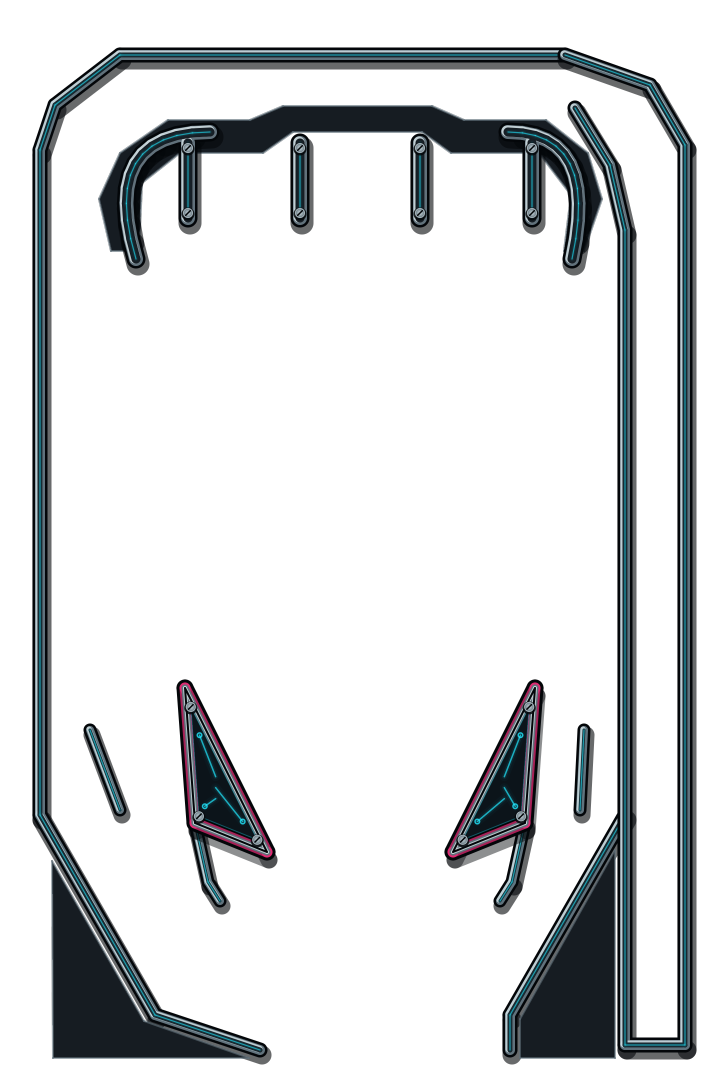
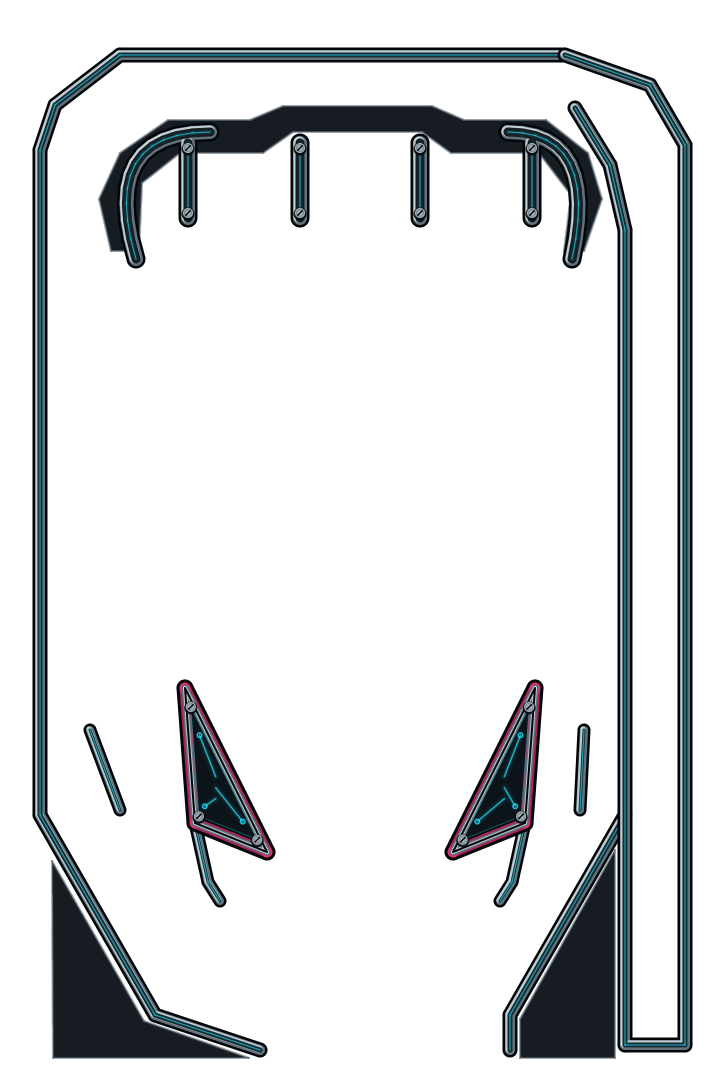
feat: update layout and rendering details, enhance collision checks, and improve asset descriptions

diff --git a/internal/platform/layout_preview.go b/internal/platform/layout_preview.go
@@ -17,10 +17,10 @@ func RenderLayoutFrame(window draw.Window, current *game.Game) {
 	view := newViewport(width, height)
 	window.FillRect(0, 0, width, height, draw.RGB(.07, .08, .09))
 	solid := draw.RGB(.4, .43, .45)
-	for _, line := range current.Table.LineColliders() {
+	for _, line := range current.World.Lines {
 		r.thickLine(window, view, line.Segment, solid, int(math.Round(line.Radius*2)))
 	}
-	for _, circle := range current.Table.CircleColliders() {
+	for _, circle := range current.World.Circles {
 		x, y := view.point(circle.Center)
 		radius := view.size(circle.Radius)
 		window.FillEllipse(x-radius, y-radius, radius*2, radius*2, solid)
@@ -36,7 +36,7 @@ func RenderLayoutFrame(window draw.Window, current *game.Game) {
 	for _, f := range current.World.Flippers {
 		r.thickLine(window, view, physics.Segment{A: f.Pivot, B: f.Tip()}, draw.LightGray, int(f.Radius*2))
 	}
-	r.centerText(window, "NEON RELAY", view.x(table.TitleOrigin.X+110), view.y(table.TitleOrigin.Y+35), float32(view.scale), draw.LightGray)
+	r.centerText(window, "NEON RELAY", view.x(table.TitleOrigin.X+88), view.y(table.TitleOrigin.Y+35), float32(view.scale), draw.LightGray)
 	RenderCollisionOverlay(window, current)
 }
 

diff --git a/cmd/genassets/art.go b/cmd/genassets/art.go
@@ -100,7 +100,6 @@ func (c *canvas) rails(walls []physics.LineCollider) {
 		dx, dy, extra, opacity float64
 		col                    color.NRGBA
 	}{
-		{2, 5, 9, .6, black},
 		{0, 0, 5, 1, black},
 		{0, 0, 0, 1, metal},
 		{-1, -1, -3, .9, silver},
@@ -118,7 +117,6 @@ func (c *canvas) rails(walls []physics.LineCollider) {
 }
 
 func (c *canvas) plastic(p [][2]float64) {
-	shadow := make([][2]float64, len(p))
 	inner := make([][2]float64, len(p))
 	var cx, cy float64
 	for _, v := range p {
@@ -126,11 +124,8 @@ func (c *canvas) plastic(p [][2]float64) {
 		cy += v[1] / float64(len(p))
 	}
 	for i, v := range p {
-		shadow[i] = [2]float64{v[0] + 2, v[1] + 8}
 		inner[i] = [2]float64{cx + (v[0]-cx)*.81, cy + (v[1]-cy)*.81}
 	}
-	c.polygon(shadow, black, .8)
-	c.outline(shadow, 17, black, .45)
 	c.polygon(p, graphite, 1)
 	c.outline(p, 17, black, 1)
 	c.outline(p, 11, pink, .65)

diff --git a/internal/table/table_test.go b/internal/table/table_test.go
@@ -161,13 +161,15 @@ func TestGoldenBallTrajectory(t *testing.T) {
 	world := definition.World()
 	ball := physics.NewBall(definition.BallSpawn, BallRadius)
 	ball.Velocity = physics.V(0, -1750)
+	// The new upper guides redirect the launch orbit before it reaches the
+	// target bank. Pin both the orbit and the subsequent main-playfield travel.
 	want := map[int]physics.Vec{
 		60:  physics.V(655, 571.645833333334),
 		120: physics.V(655, 205.791666666669),
 		240: physics.V(370.539814501204, 107.722554539464),
 		360: physics.V(486.252606622681, 77.521200147571),
-		600: physics.V(0, 0),
-		960: physics.V(0, 0),
+		600: physics.V(462.409128631806, 517.527922390269),
+		960: physics.V(437.315758264932, 567.120295314501),
 	}
 	for step := 1; step <= 960; step++ {
 		definition.Flippers[0].SetEngaged(step%97 < 12)

diff --git a/cmd/renderpreview/surface.go b/cmd/renderpreview/surface.go
@@ -82,6 +82,22 @@ func (s *surface) DrawEllipse(x, y, width, height int, col draw.Color) {
 	}
 }
 
+func (s *surface) FillEllipse(x, y, width, height int, col draw.Color) {
+	if width <= 0 || height <= 0 {
+		return
+	}
+	rx, ry := float64(width)/2, float64(height)/2
+	cx, cy := float64(x)+rx, float64(y)+ry
+	for row := max(y, s.pixels.Bounds().Min.Y); row < min(y+height, s.pixels.Bounds().Max.Y); row++ {
+		t := (float64(row) + .5 - cy) / ry
+		extent := rx * math.Sqrt(max(0, 1-t*t))
+		left, right := int(math.Ceil(cx-extent-.5)), int(math.Floor(cx+extent-.5))
+		if right >= left {
+			s.FillRect(left, row, right-left+1, 1, col)
+		}
+	}
+}
+
 func (s *surface) load(path string) (image.Image, error) {
 	if img, ok := s.images[path]; ok {
 		return img, nil

diff --git a/internal/table/artwork.go b/internal/table/artwork.go
@@ -15,7 +15,7 @@ type SpriteFrame struct {
 	ContactRadius float64
 	// ContactLength is the full source-pixel length of a target housing.
 	ContactLength float64
-	// Tip identifies the flipper's source-pixel tip, measured from Anchor.
+	// Tip identifies the flipper's tip in source-pixel coordinates.
 	Tip physics.Vec
 }
 
@@ -26,6 +26,7 @@ type Placement struct {
 }
 
 // Place keeps the authored anchor on the physical mechanism during rotation.
+// Angle is supplied in radians; the returned draw angle is in degrees.
 func (s SpriteFrame) Place(anchor physics.Vec, scale, angle float64) Placement {
 	offset := physics.V(s.Width/2, s.Height/2).Sub(s.Anchor).Mul(scale)
 	sin, cos := math.Sincos(angle)

diff --git a/cmd/renderpreview/main.go b/cmd/renderpreview/main.go
@@ -106,5 +106,9 @@ func run(out string, width, height int, colliders, blockout bool) error {
 	if current.State != game.Playing {
 		return fmt.Errorf("pause did not resume gameplay")
 	}
-	return nil
+	step(180, game.Input{})
+	if current.Score == 0 {
+		return fmt.Errorf("launch did not reach scoring features")
+	}
+	return capture("rally", game.Playing)
 }

diff --git a/assets/README.md b/assets/README.md
@@ -20,7 +20,7 @@ are current without changing them, run:
 go run ./cmd/genassets -check
 ```
 
-`go test ./cmd/genassets` performs the same byte-for-byte freshness check and
+`go test ./cmd/genassets` compares decoded image pixels and exact audio bytes and
 also validates all PNG dimensions and canonical WAV headers. Images are drawn
 at 3× their final size and box-filtered for deterministic antialiasing. Noise in
 the synthesized effects comes from fixed xorshift seeds.
@@ -53,7 +53,10 @@ than the opaque background are transparent.
 
 | File | Dimensions | Purpose |
 | --- | ---: | --- |
-| `images/background.png` | 720×1080 | graphite circuit playfield with baked hardware |
+| `images/background.png` | 720×1080 | flat graphite circuit playfield and printed title |
+| `images/table-shadows.png` | 720×1080 | transparent static contact shadows |
+| `images/table-hardware.png` | 720×1080 | rails, routing plate, slingshot covers, and apron panels |
+| `images/table-foreground.png` | 720×1080 | cabinet perimeter, display housings, and drain lip |
 | `images/logo.png` | 640×200 | Neon Relay circuit wordmark |
 | `images/favicon.png` | 64×64 | compact relay-mark icon |
 | `images/ball.png` | 64×64 | shaded steel pinball |
@@ -70,13 +73,29 @@ than the opaque background are transparent.
 
 ## Rendering approach
 
-`cmd/genassets/art.go` draws the electronics-themed artwork. The background
-bakes layered rail highlights, contact shadows, fasteners, and slingshot
-plastics directly from `internal/table.New()` so the visible hardware follows
-the collision geometry. Regenerate assets after changing the table definition.
-Moving mechanisms and the steel ball remain transparent sprites; lane and
-target state select illuminated or recessed variants at runtime. The browser
-uses a system monospace font for live score displays and instrument labels.
+`cmd/genassets/art.go` and `cmd/genassets/layout.go` draw the electronics-themed
+artwork. Runtime composition follows this order:
+
+1. Flat playfield artwork and printed circuitry/title.
+2. Static contact shadows.
+3. Static hardware, followed by lane inserts, bumpers, posts, and targets.
+4. Moving flippers, plunger, and ball.
+5. Foreground cabinet/display housings and the lip below the drain sensor.
+6. Emission/effects and the instrument HUD.
+
+Rails and slingshots use the same geometry as `internal/table.New()`. Upper guide
+curves are tessellated once in the table definition for both drawing and physics.
+Regenerate assets after changing the table definition. Shared source bounds and
+anchors in `internal/table/artwork.go` keep sprites aligned with physical centers
+and flipper pivots/tips during rotation.
+
+Printed routing plates have no height. Apron panels occupy sealed regions outside
+the lower walls, and foreground covers stay outside live ball travel. Sprite
+padding and shadows are decorative; opaque contact edges fit the physical shapes.
+Future raised covers must explicitly define ball clearance and draw order.
+Lane and target states select illuminated or recessed variants at runtime.
+The browser uses a system monospace font for live displays; software captures
+currently use Go Mono, so text rasterization can differ.
 
 The visual direction follows the Neon Relay concept developed during design;
 no generated concept bitmap is embedded in the game. All shipped pixels remain
@@ -102,6 +121,6 @@ sample by sample by `cmd/genassets`.
 
 The design, drawing instructions, letter paths, procedural layout, and audio
 synthesis recipes were authored for Neon Relay in `cmd/genassets/main.go` and
-`cmd/genassets/art.go`. The committed binaries are direct outputs of that source and carry the same project
+`cmd/genassets/art.go`, `cmd/genassets/layout.go`, and the shared table definition. The committed binaries are direct outputs of that source and carry the same project
 license as the rest of this repository. Because generation consumes no external
 inputs, the source plus its fixed constants are the complete provenance trail.

diff --git a/PLAN.md b/PLAN.md
@@ -40,21 +40,36 @@ and lighting. Adding more circuit lines alone will not close this gap.
 
 ## Phase 1 — establish the new layout and render structure
 
-- [ ] Block out a stronger upper arch with three defined rollover channels;
+- [x] Block out a stronger upper arch with three defined rollover channels;
   place the title between the upper bumper pair and a lower central bumper.
   Enlarge target housings and give the lower slingshots, return lanes, and drain
   apron the proportions of assembled pinball hardware.
-- [ ] Keep the existing feature set and logical resolution initially. Change
+- [x] Keep the existing feature set and logical resolution initially. Change
   `internal/table` geometry where needed, checking launch clearance, shot paths,
   flipper reach, and drain access rather than copying impossible concept geometry.
-- [ ] Define shared component bounds, sprite pivots, and draw order: playfield,
+- [x] Define shared component bounds, sprite pivots, and draw order: playfield,
   shadows, mechanisms, moving parts, foreground covers, emission, and HUD.
   Visible contact edges must follow colliders; decorative overhangs need explicit
   clearance and occlusion rules.
-- [ ] Save a baseline and matching engine captures for comparison with the concept.
+- [x] Save a baseline and matching engine captures for comparison with the concept.
 
 **Exit:** the untextured table already has the reference's visual hierarchy;
 collision overlays and scripted launches confirm that the new layout is playable.
+
+**Completed:** curved upper guides and three physical channels; larger bumpers
+and target housings; title above the lower bumper; taller slingshots and revised
+return guides. Shared sprite anchors and separate shadow/hardware/foreground
+layers are in place. Swept-flipper clearance also caught and removed a pre-existing
+right guide overlap.
+
+**Evidence:** engine captures in `output/preview-phase1-before/` (baseline),
+`output/preview-phase1/`, `output/preview-phase1-colliders/`, and
+`output/preview-phase1-blockout/`; half-size captures in `output/preview-phase1-small/`.
+These are local, ignored outputs. Reproduce with `just render-preview` or the
+`-colliders` / `-blockout` options documented in README. Rollover passage, full and
+weak launches, flipper clearance/anchors, drain routing, and reviewed trajectory
+checks pass. The scripted rally scores and drops targets. Material depth remains
+Phase 2 work.
 
 ## Phase 2 — prove the material treatment on one assembly
 

diff --git a/README.md b/README.md
@@ -53,7 +53,7 @@ All artwork and sound effects are generated specifically for this project. See
 ## Render engine screenshots
 
 Run `just render-preview` to write PNGs for attract, launch-ready, playing,
-raised flippers, and pause states into `output/preview/`. This advances the real
+raised flippers, pause, and a scoring rally into `output/preview/`. This advances the real
 simulation and calls the production renderer through a software drawing
 surface. It uses Node.js and Go's WebAssembly runtime; it does not open a
 browser or require OpenGL, SDL, or a display server.
@@ -66,3 +66,15 @@ For another output size:
 
 The capture surface uses Go Mono for text and software image filtering, so
 font rasterization and antialiasing may differ slightly from the display backend.
+
+To inspect table geometry during layout work, use engine capture modes:
+
+```sh
+./scripts/render-preview.sh -colliders -out output/preview-colliders
+./scripts/render-preview.sh -blockout -out output/preview-blockout
+```
+
+The overlay shows solid collision surfaces in cyan, sensors in amber, flippers
+in magenta, and the ball in white. The blockout uses flat geometry to check
+composition without textures. Sprite bounds and anchors live in
+`internal/table/artwork.go`; static guide paths come from `internal/table/table.go`.
